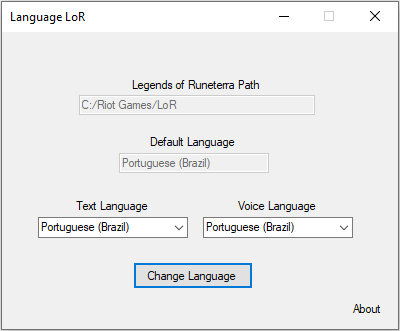
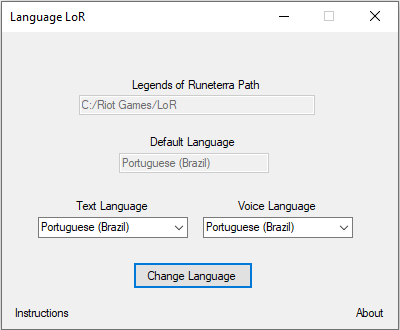
Adding instructions button; Updating main window image.

diff --git a/LanguageLoR/MainWindow.Designer.cs b/LanguageLoR/MainWindow.Designer.cs
@@ -40,6 +40,7 @@
             this.loadingLabel = new System.Windows.Forms.Label();
             this.languageDefaultTextField = new System.Windows.Forms.TextBox();
             this.aboutLabel = new System.Windows.Forms.Label();
+            this.instructionsLabel = new System.Windows.Forms.Label();
             this.SuspendLayout();
             // 
             // changeLanguageButton
@@ -136,13 +137,26 @@
             this.aboutLabel.Size = new System.Drawing.Size(44, 23);
             this.aboutLabel.TabIndex = 11;
             this.aboutLabel.Text = "About";
+            this.aboutLabel.TextAlign = System.Drawing.ContentAlignment.MiddleRight;
             this.aboutLabel.Click += new System.EventHandler(this.AboutButtonClick);
+            // 
+            // instructionsLabel
+            // 
+            this.instructionsLabel.Cursor = System.Windows.Forms.Cursors.Hand;
+            this.instructionsLabel.Location = new System.Drawing.Point(12, 312);
+            this.instructionsLabel.Name = "instructionsLabel";
+            this.instructionsLabel.Size = new System.Drawing.Size(74, 23);
+            this.instructionsLabel.TabIndex = 12;
+            this.instructionsLabel.Text = "Instructions";
+            this.instructionsLabel.TextAlign = System.Drawing.ContentAlignment.MiddleLeft;
+            this.instructionsLabel.Click += new System.EventHandler(this.InstructionsButtonClick);
             // 
             // MainWindow
             // 
             this.AutoScaleDimensions = new System.Drawing.SizeF(7F, 15F);
             this.AutoScaleMode = System.Windows.Forms.AutoScaleMode.Font;
             this.ClientSize = new System.Drawing.Size(462, 343);
+            this.Controls.Add(this.instructionsLabel);
             this.Controls.Add(this.aboutLabel);
             this.Controls.Add(this.languageDefaultTextField);
             this.Controls.Add(this.loadingLabel);
@@ -175,5 +189,6 @@
         private System.Windows.Forms.Label loadingLabel;
         private System.Windows.Forms.TextBox languageDefaultTextField;
         private System.Windows.Forms.Label aboutLabel;
+        private System.Windows.Forms.Label instructionsLabel;
     }
 }

diff --git a/LanguageLoR/MainWindow.cs b/LanguageLoR/MainWindow.cs
@@ -1,4 +1,5 @@
 using System;
+using System.Diagnostics;
 using System.Windows.Forms;
 
 namespace LanguageLoR
@@ -8,6 +9,7 @@ namespace LanguageLoR
         private const string LorPathNotFoundErrorMessage = "Path not found! LoR is probably not installed.";
         private const string LoadingMessage = "Replacing language...";
         private const string FinishedMessage = "Language successfully replaced!";
+        private const string InstructionsLink = "https://github.com/lucas-carneiro/language-lor#instructions";
         public MainWindow()
         {
             InitializeComponent();
@@ -34,6 +36,11 @@ namespace LanguageLoR
         private void AboutButtonClick(object sender, EventArgs e)
         {
             new AboutWindow().Show();
+        }
+
+        private void InstructionsButtonClick(object sender, EventArgs e)
+        {
+            Process.Start(InstructionsLink);
         }
     }
 }
